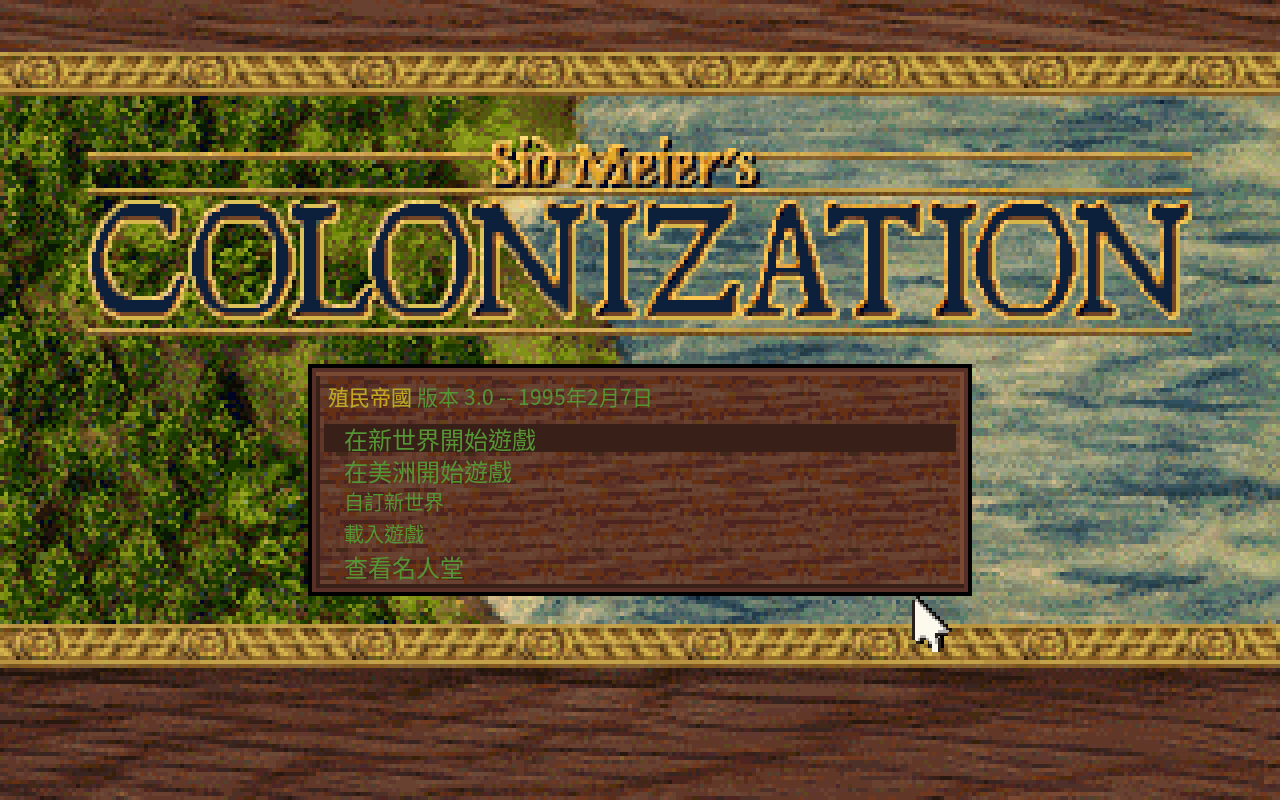
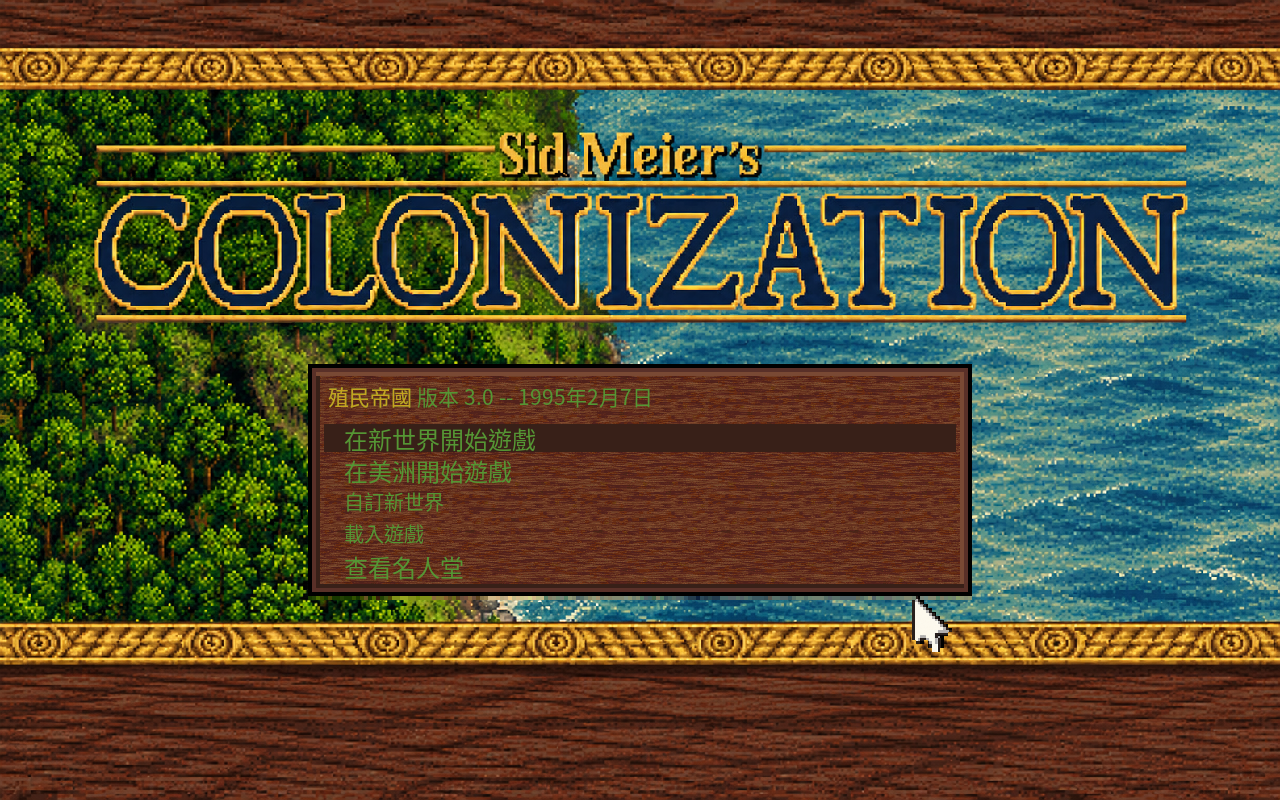
更新 README 主選單 HD 背景與逐圖來源紀錄

diff --git a/CONTEXT.md b/CONTEXT.md
@@ -17,7 +17,7 @@
 | HD中央第009幀 | 中央第009幀已正式接線並限定CONFORMED，合計十四種HD素材／15檔，維持單一城內來源群組、41Go檔／24來源綁定。734Go零skip、go vet、49點原版狀態／存檔、200來源反例及既有31海洋／17人物／20木棚反例通過。十來源130次呼叫、430234事件及480筆游標還原與獨立原版模型相符。452組五語GUI、1808設定事件、17466不透明游標像素及中央五語恢復通過，14筆中央現況診斷均有HD，原始逐寫快照仍沿R44。650筆實際輸入四側重播至1005200000步，完整CPU／RAM／VGA／DAC、WAV及存檔全同。44種啟動缺件／恢復、219設定事件及44項封裝拒絕通過，原日文HD偏好不變。三組暫停守門回原圖保留；木棚放開139點，正常重進恢復263點。證據根hd-building009-formal-r45，其他地形、人物、動畫、跨平台效能與完整HD未完成，沒有新發行。 |
 | HD城內群組 | 規格064現行正式結果見上列R45。R43九來源的限定CONFORMED及原始驗證仍保留。R46地形逐寫研究已有13來源及暫存轉送模型，仍為DRAFT，未加入正式HD。 |
 | HD世界地形 | 規格062 R58限定CONFORMED，世界079與海洋共用既有觀測，合計45種正式素材／清冊46檔、45Go／28綁定。827Go零skip與go vet、49點原版來源及31反例、92組五語GUI、20點獨立來源／330992個像素、97筆實際輸入四側至199200000步通過。存檔前後十次五語恢復各1129點；沒有守門回退。正式play=true的世界、城內與存檔返回通過，原版狀態／WAV／存檔保持；固定Linux ABBA成本比例1.1623。6種本批新行程與139項封裝拒絕通過。 證據根hd-terrain079-formal-r58。其他地形、游標、背景、動畫及全量HD仍未完成，沒有新發行。 |
-| README畫面 | 依使用者追加要求，已更新為正式已驗顯示層的HD殖民地、HD世界、繁中五語設定及Noto主選單四張實際畫面。四圖已更新為R64的66種正式素材版本，PNG原樣保存，來源程式468e835與指紋見[截圖紀錄](docs/screenshots/readme-captures.json)。首頁明示開發版，未使用DRAFT地形候選，已發布封包保持。 |
+| README畫面 | HD殖民地、世界及顯示設定三圖沿R64，原PNG與來源程式468e835保持；主選單已更新為R66的HD背景、標題與木紋，來源程式fe97cf6。逐圖程式、正式素材數與指紋見[截圖紀錄](docs/screenshots/readme-captures.json)，沒有把舊三圖改標為新建置。首頁明示開發版，已發布封包保持。 |
 | HD正式木棚 | [規格064](docs/spec/064-hd-colony-building-batch.md)第024幀限定CONFORMED，城內群組最新狀態見R45。R39原圖與alpha原樣加入graphics，正式39個Go檔／22來源綁定、既有啟動器與五檔封裝白名單已接線，五個來源方法與R40相同。703Go零skip、go vet、49點完整原版狀態／存檔、20木棚／17人物／31海洋反例通過；缺原版另驗三個明確skip。322組五語GUI、1288筆設定事件與12218個不透明游標像素通過；108組HD木棚263點有效、204區塊含alpha，51組木棚0點，另2組守門回原圖。拖曳來源不符仍回原圖並保留語言，放開後恢復。332筆實際輸入四側重播至604200000步，完整CPU／RAM／VGA／DAC、WAV與存檔全同。14種新行程缺件／恢復及14項封裝反例通過，69筆設定事件不改原版，原日文HD偏好位元組保持。證據根hd-building024-formal-r41；未接受背景RAM轉送，其他素材、動畫、跨平台效能、完整HD與新發行待續。 |
 | HD人物正式首個 | [規格063](docs/spec/063-hd-person-draw-lifecycle.md)限定CONFORMED。使用者確認的v2原圖及alpha已原樣加入graphics，人物第100幀接入正式建置、既有啟動器與封裝白名單。699Go零skip、go vet、49點原版狀態／存檔、17人物及31海洋反例通過；五個人物來源方法與R37相同。252組五語原版／HD、1008筆設定事件及9512個不透明游標像素通過，沒有守門回退。75組城內HD皆120點有效來源、92點含alpha而實際合成；51組主選單／世界／存檔／百科／離城等HD畫面皆0點。229筆實際輸入四側重播至458200000步，完整CPU／RAM／VGA／DAC、WAV及存檔全同。11種新行程缺件／錯件／連結及恢復驗證通過，54筆設定事件不改原版，日文HD偏好位元組不變；11項封裝反例全拒絕。原版參考與收據留本機hd-person-formal-r38。其他人物、動畫、跨平台效能及完整HD未完成，沒有新版發行。 |
 | 本輪範圍 | 五語切換、非英文英數高清字型、所有玩家可見圖像含小圖像與動畫幀的全量HD、實際遊玩影片與README。README已補背景來源及四張實際截圖；第一張精細像素風已定稿入庫。使用者已確認畫面外設定列、開啟暫停及放開後恢復，決定見[AGENTS.md](AGENTS.md#顯示設定定案)。新增功能未進發行版。已錄51.933秒真實操作，音軌、字幕與90秒成片未完成。入口[目標186](docs/goals/186-display-settings-and-gameplay-video.md)，Issue #62／#63／#64。 |

diff --git a/README.md b/README.md
@@ -85,16 +85,16 @@ Linux需要X11、OpenGL與ALSA；FUSE不可用時，在AppImage檔名後先加 `
 
 顯示設定：語言與圖像模式可獨立切換；開啟時暫停，關閉並放開按鍵後恢復。
 
-![使用 Noto 字型的繁體中文主選單](docs/screenshots/noto-menu-zh.png)
+![HD 背景、木紋與 Noto 字型的繁體中文主選單](docs/screenshots/noto-menu-zh.png)
 
-主選單：繁中使用 Noto 字型，原版大型標題維持原貌。各欄位的翻譯與排版仍分別驗證。
+主選單：背景、大型標題與選單木紋已依定稿畫風重繪，繁中使用 Noto 字型。各欄位的翻譯與排版仍分別驗證。
 
 ## 開發與研究入口
 
 所有建置、遊戲執行、分析與抓圖都在 Docker 容器內進行，需要自備合法原版。
 
 - [目前脈絡](CONTEXT.md)、[工作計畫](WORKLIST.md)（由 `docs/worklist.json` 產生）
-- [多語系、HD 切換與實際遊玩影片](docs/goals/186-display-settings-and-gameplay-video.md)：五語整包後端與設定保存已接線；十二種城內建築與景物、海洋與二十一種世界地形圖塊及碎片、一個人物、三十種小圖像與一般游標已接正式HD顯示。全量圖像包含小圖像與動畫幀，仍在逐項開發，尚未收進目前發行版。
+- [多語系、HD 切換與實際遊玩影片](docs/goals/186-display-settings-and-gameplay-video.md)：五語整包後端與設定保存已接線；十二種城內建築與景物、海洋與二十一種世界地形圖塊及碎片、一個人物、三十種小圖像、一般游標及主選單背景與木紋已接正式HD顯示。全量圖像包含小圖像與動畫幀，仍在逐項開發，尚未收進目前發行版。
 - [規格](docs/spec/)與[各輪目標](docs/goals/)
 - [驗證矩陣](docs/verification-matrix.md)（`tools/verification_matrix.py` 產生）
 - [研究證據](RESEARCH-LOG.md)與[工作歷程](WORKLOG.md)
